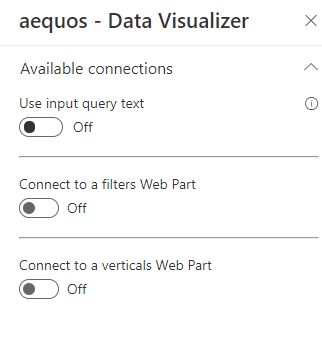
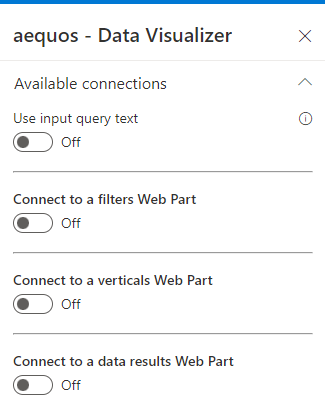
#772 - Added documentation for items selection

diff --git a/docs/usage/data-visualizer/connections/item-selection.md b/docs/usage/data-visualizer/connections/item-selection.md
@@ -1,0 +1,69 @@
+### How to configure item selection?
+
+#### Source Web Part configuration
+
+1. In a Data Visualizer Web Part where you want to select items from, go to the second property pane configuration page and enable the **Allow item selection** flag:
+
+!["Allow item selection](../../../assets/webparts/data_visualizer/connections/allow_item_selection.png "Allow item selection"){: .center}
+
+2. Specifiy if you want to allow only single or multi selection.
+3. Make sure some results are displayed in the Web Part by setting a default query.
+
+#### Target Web Part(s) configuration
+
+1. In a Data Visualizer Web Part where you want to filter values, go to the third configuration page and enable the **Connect to a data results Web Part** flag. 
+
+3. From here, select the previous Web Part as source.
+
+    !["Configure connection](../../../assets/webparts/data_visualizer/connections/configure_data_results_connection_1.png "Configure connection"){: .center}
+
+3. Select the **source** field to use as filter value.
+
+    !["Configure connection](../../../assets/webparts/data_visualizer/connections/configure_data_results_connection_2.png "Configure connection"){: .center}
+
+    !!! note
+        If you don't see any fields in the dropdown list after selection a source Web Part, it could be because:
+
+        - The source Web Part doesn't have any results displayed yet so we can't guess what are the available exposed fields. In this case, you can either type the field name **manually** in the dropdown and press 'Enter' or display results in the source Web Part to list all its available fields.
+        - The source Web Part doesn't allow item selection. In this case, you can't add any field.
+
+4. Select the **destination** field to filter the current Web Part results.
+
+    !["Configure connection](../../../assets/webparts/data_visualizer/connections/configure_data_results_connection_3.png "Configure connection"){: .center}
+
+    !!! note
+        If you don't see any fields in the dropdown list for target fields, it is because the Web Part doesn't display any result yet. In this case, you can either type the field name **manually** in the dropdown and press 'Enter' or display results in the source Web Part to list all available fields.
+
+5. Select the selection mode.
+
+    !["Configure connection](../../../assets/webparts/data_visualizer/connections/configure_data_results_connection_4.png "Configure connection"){: .center}
+
+    !!! note
+        - **Process values as filters**: the values will be sent as regular filters, just like they were selected in the <i>Data Filter</i> Web Part. In this mode, the selected source field **must be a valid filter for the current data source**. For instance if the data source is SharePoint Search or Microsoft Search, the field **must be a valid refinable managed property**. 
+        - **Process values as tokens**: the values will be sent manually in the data source query using token `{filter.source_field.valueAsText/valueAsObject}` and/or adaptive expressions to craft a valid query. This scenario can be useful for instance if:
+            - You use SharePoint Search or Microsoft Search data sources and you don't want to use a Refinable managed property as filters.
+            - You use OData data source and you want to create a dynamic query using tokens.
+
+        **Examples**
+
+        _SharePoint Search KQL (Single Value)_
+        
+        `Title:{filters.Title.valueAsText}`  will be translated to `Title:docx`
+
+        _SharePoint Search KQL (Multi Values)_ <br>
+        **OR condition**: `{|Title:{filters.Title.valueAsText}}` will be translated to `(Title:docx) OR (Title:pdf)...` <br>
+        **AND condition**: `{&Title:{filters.Title.valueAsText}}` will be translated to `(Title:docx) AND (Title:pdf)...` <br><br>
+
+        _OData URL (Multi Values)_ <br>
+        **OR condition**: ``{|Title eq {filters.Title.valueAsText}}` will be translated to `(Title eq 'docx') or (Title eq 'pdf')`` <br>
+        **AND condition**: ``{&Title eq {filters.Title.valueAsText}}` will be translated to `(Title eq 'docx') or (Title eq 'pdf')``
+
+6. Select the logical operator to use between selected filter values if applicable (default mode only).
+
+    !["Configure connection](../../../assets/webparts/data_visualizer/connections/configure_data_results_connection_5.png "Configure connection"){: .center}
+
+!!! info "Filtering general behavior"
+
+- `null` ou `empty` filters values **are ignored** in the resulting query.
+- Duplicate values are trimmed (ex: user select items with the same filter values).
+- Filter values should be 'string' values. All other types will be ignored (ex: 'objects' from JSON response).

diff --git a/docs/usage/data-visualizer/tokens.md b/docs/usage/data-visualizer/tokens.md
@@ -98,7 +98,7 @@ The SharePoint Search engine already supports tokens by default (i.e query varia
 
 ##### Use the 'OR' operator
 
-To deal with mutli valued properties (like taxonomy multi or choices SharePoint fields), you can use the 'OR' operator syntax `{|<property><operator><multi_values_property>}`. The search query will be expanded to the following KQL query:
+To deal with mutli valued properties (like taxonomy multi or choices SharePoint fields), you can use the 'OR' operator syntax `{|<property><operator><multi_values_property>}`. The search query will be expanded to the following KQL or OData query:
 
     ((<property><operator><value_1>) OR (<property><operator><value_2>) OR (<property><operator><value_3>) ...)
 
@@ -107,11 +107,13 @@ To deal with mutli valued properties (like taxonomy multi or choices SharePoint 
 - Using an user profile multi values taxonomy property: `{|owstaxidmetadataalltagsinfo:{User.SPS-Hashtags}}`
 - Using a page multi values taxonomy property: `{|owstaxidmetadataalltagsinfo:{Page.myTaxonomyMultiColumn.TermID}}` or `{|owstaxidmetadataalltagsinfo:{Page.myTaxonomyMultiColumn.TermLabel}}`
 - Using a page multi values choice property: `{|RefinableStringXX:{Page.myChoiceMultiColumn}}`
+- Filter on a field with SharePoint REST API using OData: `{&fields/FileLeafRef eq title1,title2}`
 
 At any time, you can see the resolved query using the 'Debug' layout an inspecting the `data.queryModification` property.
 
 !!! note
     Multi values have to be separated by a comma `,` to be correctly interpreted by the OR operator. Using a multi taxonomy column (ex `{Page.myTaxonomyMultiColumn.TermID}`) or a multi choice field `{Page.myChoiceMultiColumn}` will automatically output values with the comma delimiter.
+    The expression will be considered as an OData query if the operator is either 'eq','ne','ge','gt','lt' or 'le'. In this case, the logical operator will be automatically format to lower case and values enclosed with single quotes to comply with OData format.
 
 #### OData Data Source default URL syntax
 

diff --git a/docs/usage/data-visualizer/connections/index.md b/docs/usage/data-visualizer/connections/index.md
@@ -26,6 +26,8 @@ Optionaly, you can set a default query text **when there is no value for the con
 
 ## Filters Web Part
 
+Send available filters for the current data source to a Data Filters Web Part to be rendered. This is a two-ways connection and you need to connect the Data Visualizer Web Part from the Data Filter Web Part as well.
+
 For static filters (i.e. taxonomy picker and date range filter templates), this value can be used using the `{filters.<FilterName>}` token. See [tokens](../tokens.md) for more information.
 
 !["Filters"](../../../assets/webparts/data_visualizer/connections/filters.png){: .center}
@@ -39,3 +41,7 @@ When you connect the Web Part to a Data Verticals one, you must specify on which
 !["Select vertical"](../../../assets/webparts/data_visualizer/connections/select_vertical.png){: .center}
 
 This mechanism allows to build a complete search center using verticals tabs. 
+
+## Data Results
+
+{!usage/data-visualizer/connections/item-selection.md!}

diff --git a/docs/usage/data-verticals/index.md b/docs/usage/data-verticals/index.md
@@ -12,7 +12,6 @@ The configuration of the 'Data Verticals' Web Part is fairly simple.
 
 !["Verticals configuration"](../../assets/webparts/data_verticals/configure_verticals.png){: .center} 
 
-
 ### Configure verticals
 
 The options for a vertical are as follow:
